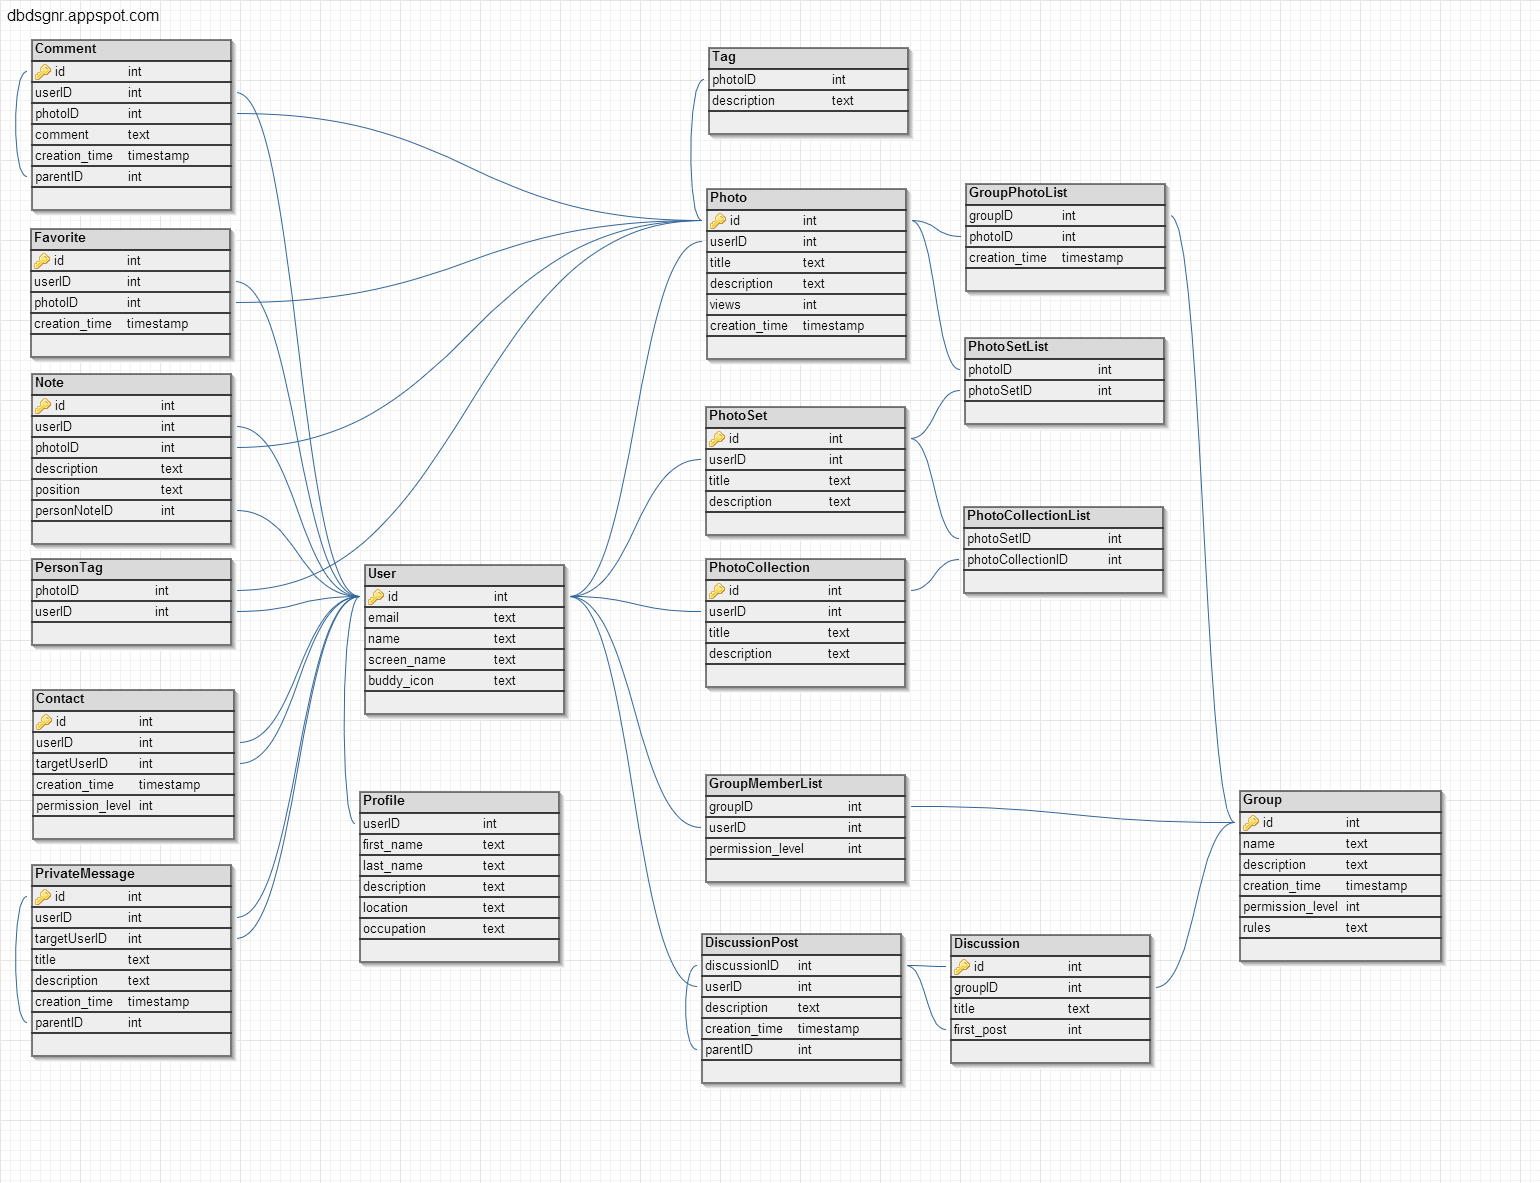
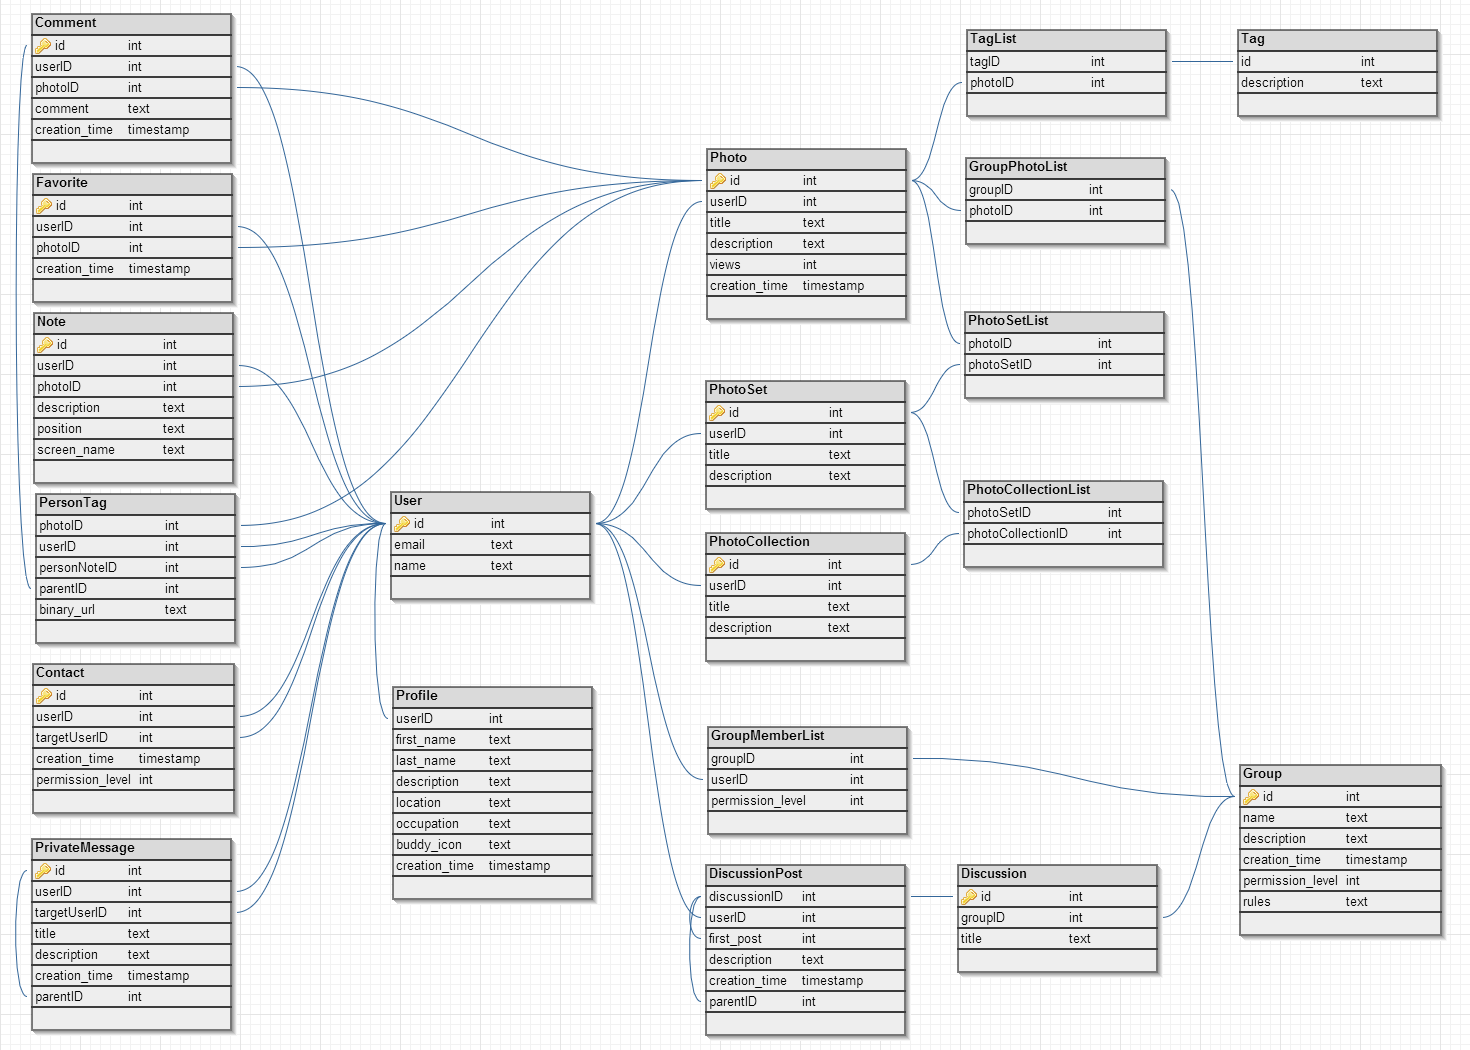
A first pass at the model bits for groups.
Includes Group, group member list and group photo list models; a view
that shows all groups and a single group view.

diff --git a/app/templates/groups/group_index.html b/app/templates/groups/group_index.html
@@ -1,0 +1,23 @@
+{% extends "nav.html" %}
+
+{% block title %}Groups | brickr{% endblock %}
+
+{% block script %}
+{% include "fix_time.html" %}
+{% endblock %}
+
+{% block content %}
+<div id="content-main">
+    {% if g.user %}
+    <h3>Groups you belong to:</h3>
+    <ul>
+    </ul>
+    {% endif %}
+    <h3>All available groups:</h3>
+    <ul>
+        {% for group in groups.query.all() %}
+            <li><a href="{{ url_for('groups.one_group', groupURL = group.url_name) }}">{{ group.name }}</a> - <span>(x members)</span></li>
+        {% endfor %}
+    </ul>
+</div>
+{% endblock %}

diff --git a/app/templates/groups/group.html b/app/templates/groups/group.html
@@ -1,0 +1,19 @@
+{% extends "nav.html" %}
+
+{% block title %}{{ group.name }} | brickr{% endblock %}
+
+{% block script %}
+{% include "fix_time.html" %}
+{% endblock %}
+
+{% block content %}
+<div id="content-main">
+    <h2>{{ group.name }}</h2>
+    <p>Created on <span class="convert-time">{{ group.creation_time }},LL</span></p>
+    <h4>About {{ group.name }}</h4>
+    <p>{{ group.description }}</p>
+    <h4>Rules</h4>
+    <p>{{ group.rules }}</p>
+    <a href="{{ url_for('groups.root') }}">Back to Group Index</a>
+</div>
+{% endblock %}

diff --git a/app/templates/nav.html b/app/templates/nav.html
@@ -5,6 +5,7 @@
     <nav>
         <ul class="menu">
             <li><a href="{{ url_for('photos.root') }}">Users</a></li>
+            <li><a href="{{ url_for('groups.root') }}">Groups</a></li>
             <li><a href="{{ url_for('about') }}">About</a></li>
             {% if g.user %}
             <li><a href="{{ url_for('users.home') }}">Profile</a></li>

diff --git a/db_repository/versions/004_migration.py b/db_repository/versions/004_migration.py
@@ -1,0 +1,44 @@
+from sqlalchemy import *
+from migrate import *
+
+
+from migrate.changeset import schema
+pre_meta = MetaData()
+post_meta = MetaData()
+group = Table('group', post_meta,
+    Column('id', Integer, primary_key=True, nullable=False),
+    Column('name', String(length=60), nullable=False),
+    Column('url_name', String(length=60), nullable=False),
+    Column('description', Text),
+    Column('rules', Text),
+    Column('creation_time', DateTime),
+)
+
+group_member_list = Table('group_member_list', post_meta,
+    Column('user_id', Integer),
+    Column('group_id', Integer),
+)
+
+group_photo_list = Table('group_photo_list', post_meta,
+    Column('photo_id', Integer),
+    Column('group_id', Integer),
+)
+
+
+def upgrade(migrate_engine):
+    # Upgrade operations go here. Don't create your own engine; bind
+    # migrate_engine to your metadata
+    pre_meta.bind = migrate_engine
+    post_meta.bind = migrate_engine
+    post_meta.tables['group'].create()
+    post_meta.tables['group_member_list'].create()
+    post_meta.tables['group_photo_list'].create()
+
+
+def downgrade(migrate_engine):
+    # Operations to reverse the above upgrade go here.
+    pre_meta.bind = migrate_engine
+    post_meta.bind = migrate_engine
+    post_meta.tables['group'].drop()
+    post_meta.tables['group_member_list'].drop()
+    post_meta.tables['group_photo_list'].drop()

diff --git a/db_repository/versions/005_migration.py b/db_repository/versions/005_migration.py
@@ -1,0 +1,41 @@
+from sqlalchemy import *
+from migrate import *
+
+
+from migrate.changeset import schema
+pre_meta = MetaData()
+post_meta = MetaData()
+group = Table('group', pre_meta,
+    Column('id', Integer, primary_key=True, nullable=False),
+    Column('name', String, nullable=False),
+    Column('url_name', String, nullable=False),
+    Column('description', Text),
+    Column('rules', Text),
+    Column('creation_time', DateTime),
+)
+
+group_tbl = Table('group_tbl', post_meta,
+    Column('id', Integer, primary_key=True, nullable=False),
+    Column('name', String(length=60), nullable=False),
+    Column('url_name', String(length=60), nullable=False),
+    Column('description', Text),
+    Column('rules', Text),
+    Column('creation_time', DateTime),
+)
+
+
+def upgrade(migrate_engine):
+    # Upgrade operations go here. Don't create your own engine; bind
+    # migrate_engine to your metadata
+    pre_meta.bind = migrate_engine
+    post_meta.bind = migrate_engine
+    pre_meta.tables['group'].drop()
+    post_meta.tables['group_tbl'].create()
+
+
+def downgrade(migrate_engine):
+    # Operations to reverse the above upgrade go here.
+    pre_meta.bind = migrate_engine
+    post_meta.bind = migrate_engine
+    pre_meta.tables['group'].create()
+    post_meta.tables['group_tbl'].drop()

diff --git a/app/models/group.py b/app/models/group.py
@@ -1,0 +1,32 @@
+from datetime import datetime
+from app import db
+
+group_member_list = db.Table('group_member_list',
+    db.Column('user_id', db.Integer, db.ForeignKey('user.id')),
+    db.Column('group_id', db.Integer, db.ForeignKey('group_tbl.id'))
+)
+
+group_photo_list = db.Table('group_photo_list',
+    db.Column('photo_id', db.Integer, db.ForeignKey('photo.id')),
+    db.Column('group_id', db.Integer, db.ForeignKey('group_tbl.id'))
+)
+
+class Group(db.Model):
+
+    __tablename__ = 'group_tbl'  # _tbl because 'group' is a reserved word.  bleh
+    id = db.Column(db.Integer, primary_key = True)
+    name = db.Column(db.String(60), unique = True, nullable = False)
+    url_name = db.Column(db.String(60), unique = True, nullable = False)
+    description = db.Column(db.Text)
+    rules = db.Column(db.Text)
+    creation_time = db.Column(db.DateTime)
+
+    def __init__(self, name, url_name, description = None, rules = None):
+        self.name = name
+        self.url_name = url_name
+        self.description = description
+        self.rules = rules
+        self.creation_time = datetime.utcnow()
+        
+    def __repr__(self):
+        return '<Group %d - %s>' % (self.id, self.url_name)

diff --git a/app/models/photo.py b/app/models/photo.py
@@ -1,6 +1,7 @@
 from datetime import datetime
 from app import db, breakpoint
 from tag import tag_list
+from group import group_photo_list
 
 class Photo(db.Model):
 
@@ -16,7 +17,8 @@ class Photo(db.Model):
     favorites = db.relationship('Favorite', backref = 'photo', lazy = 'dynamic')
     notes = db.relationship('Note', backref = 'photo', lazy = 'dynamic')
     tags = db.relationship('Tag', secondary = tag_list, backref = db.backref('photos', lazy = 'dynamic'))
-    
+    groups = db.relationship('Group', secondary = group_photo_list, backref = db.backref('photos', lazy = 'dynamic'))
+
     def __init__(self, filename, user, title, description):
         self.binary_url =  '.' + filename.split('.')[-1]
         self.user_id = user.id

diff --git a/app/groups/views.py b/app/groups/views.py
@@ -1,0 +1,23 @@
+import flask
+
+from app import app, db, breakpoint, strip
+from app.models import *
+
+from app.users.decorators import requires_login
+
+mod = flask.Blueprint('groups', __name__, url_prefix = '/groups')
+
+@mod.before_request
+def before_request():
+    flask.g.user = None
+    if 'user_id' in flask.session:
+        flask.g.user = User.query.get(flask.session['user_id'])
+
+@mod.route('/')
+def root():
+    return flask.render_template('groups/group_index.html', groups = Group)
+
+@mod.route('/<groupURL>/')
+def one_group(groupURL):
+    group = Group.query.filter_by(url_name = groupURL).first()
+    return flask.render_template('groups/group.html', group = group)

diff --git a/app/models/user.py b/app/models/user.py
@@ -1,6 +1,7 @@
 from datetime import datetime
 from app import db
 from app.users import constants as USER
+from group import group_member_list
 
 class User(db.Model):
 
@@ -17,6 +18,7 @@ class User(db.Model):
     favorites = db.relationship('Favorite', backref = 'user', lazy = 'dynamic')
     notes = db.relationship('Note', backref = 'user', lazy = 'dynamic')
     contacts = db.relationship('Contact', backref = 'user', lazy = 'dynamic')
+    groups = db.relationship('Group', secondary = group_member_list, backref = db.backref('members', lazy = 'dynamic'))
 
     def __init__(self, name = None, email = None, password = None):
         self.name = name

diff --git a/app/models/__init__.py b/app/models/__init__.py
@@ -1,4 +1,4 @@
-__all__ = ['User', 'Photo', 'Comment', 'Favorite', 'Note', 'Contact', 'Tag', 'PrivateMessage']
+__all__ = ['User', 'Photo', 'Comment', 'Favorite', 'Note', 'Contact', 'Tag', 'PrivateMessage', 'Group']
 
 from user import User
 from photo import Photo
@@ -8,3 +8,4 @@ from note import Note
 from contact import Contact
 from tag import Tag
 from private_message import PrivateMessage
+from group import Group

diff --git a/app/__init__.py b/app/__init__.py
@@ -58,6 +58,9 @@ app.register_blueprint(photoModule)
 from app.mail.views import mod as mailModule
 app.register_blueprint(mailModule)
 
+from app.groups.views import mod as groupModule
+app.register_blueprint(groupModule)
+
 if not app.debug:
     import logging
     from logging.handlers import RotatingFileHandler
